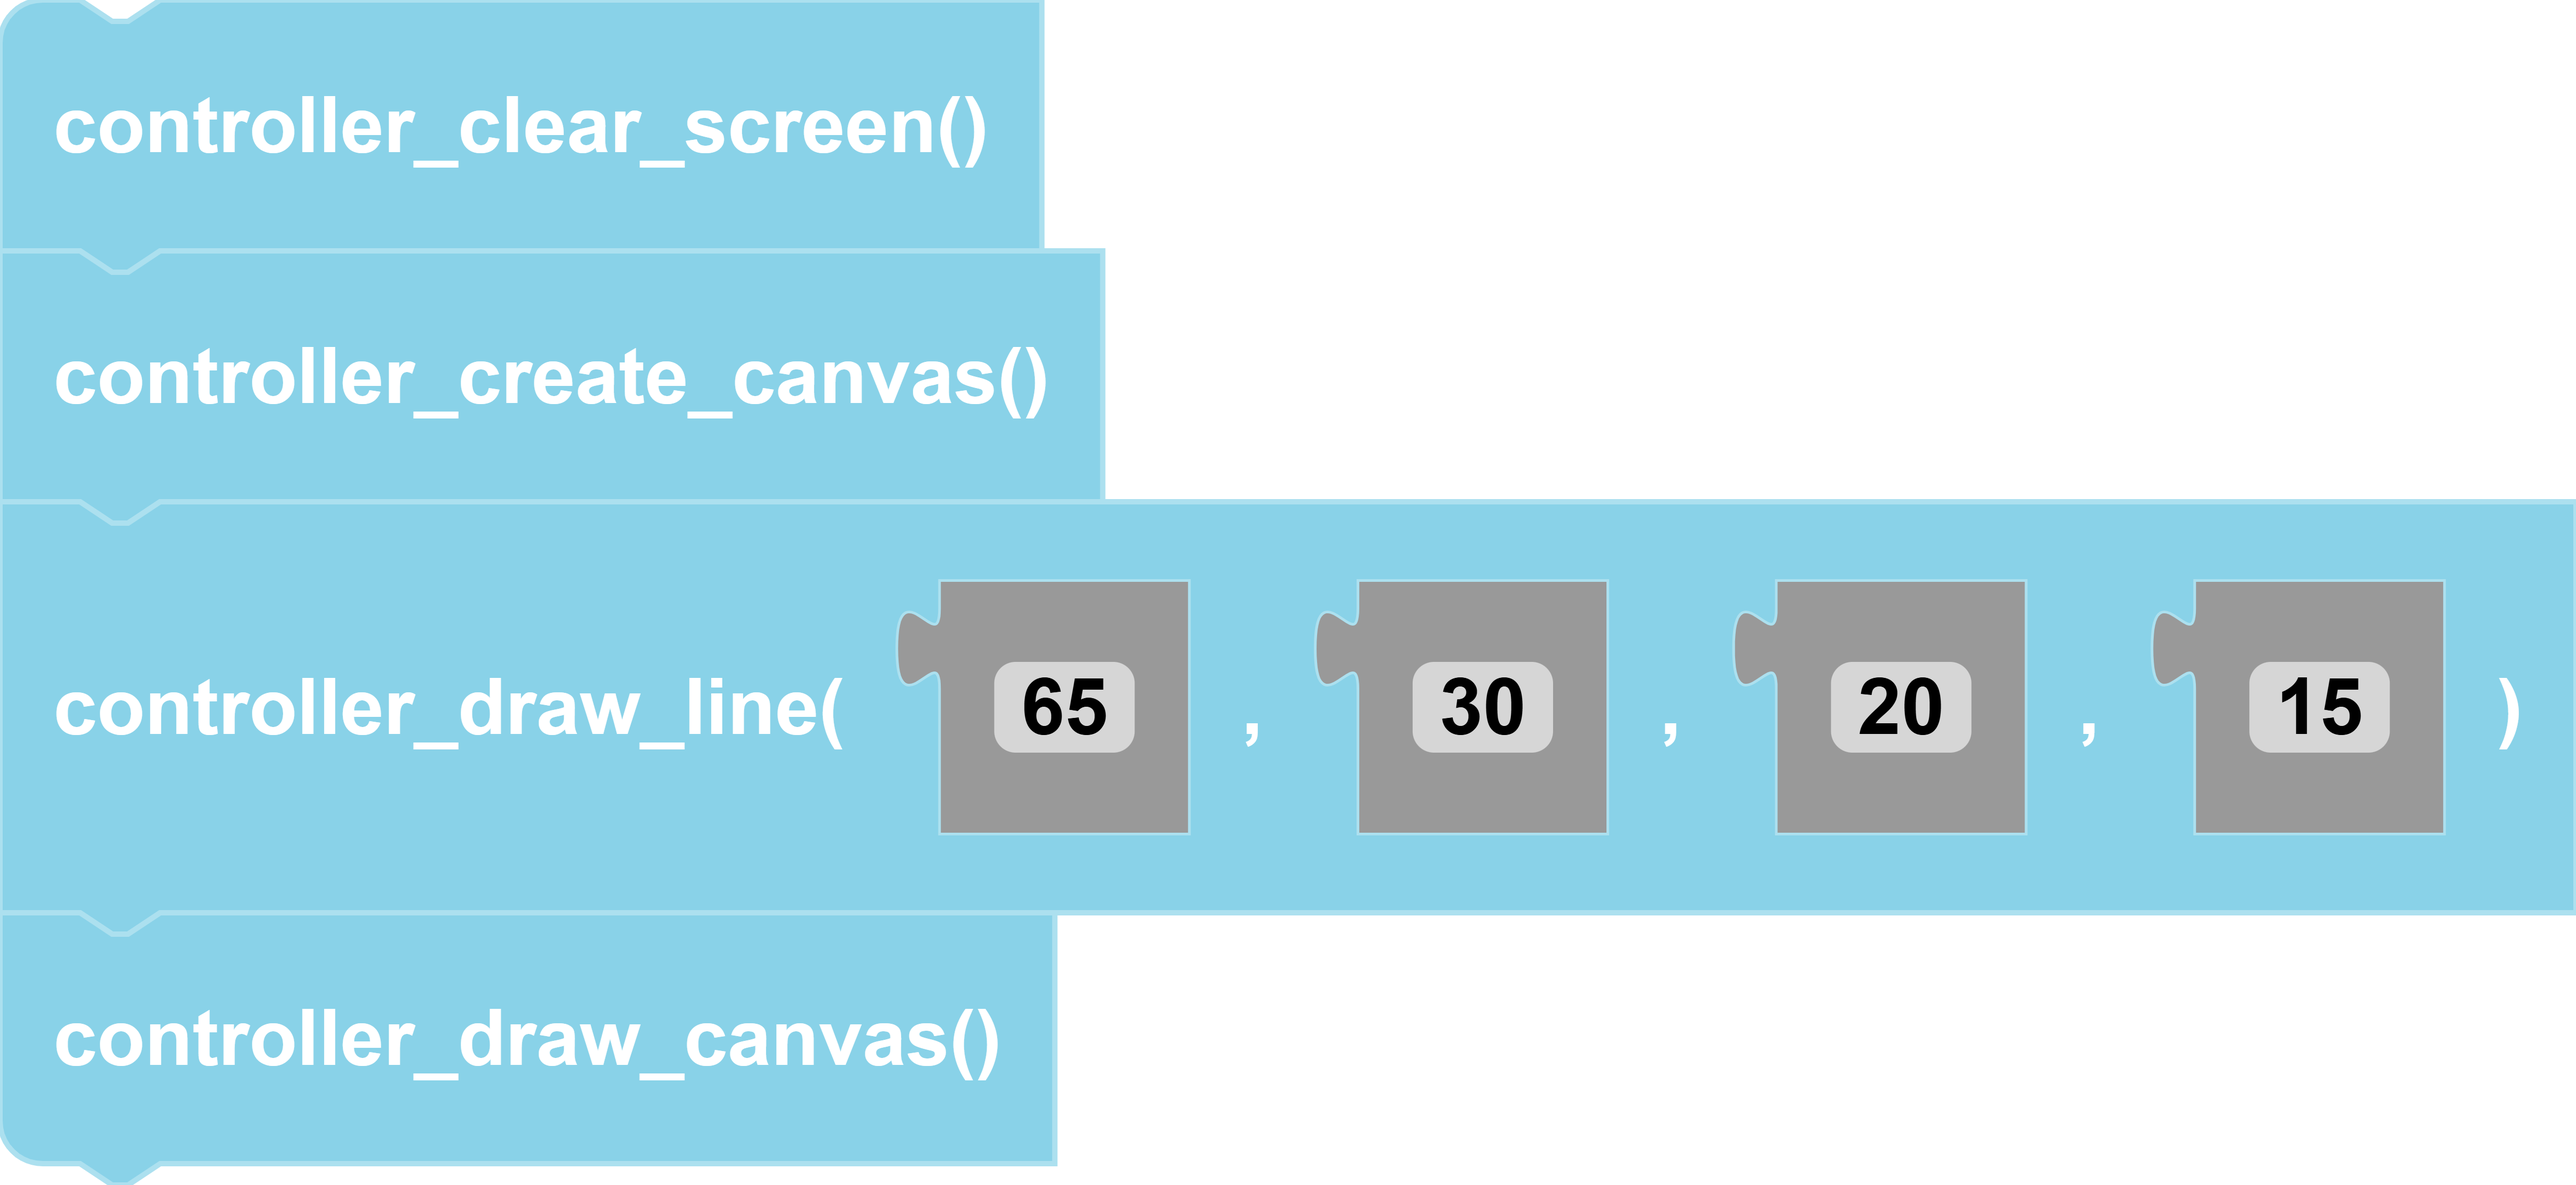
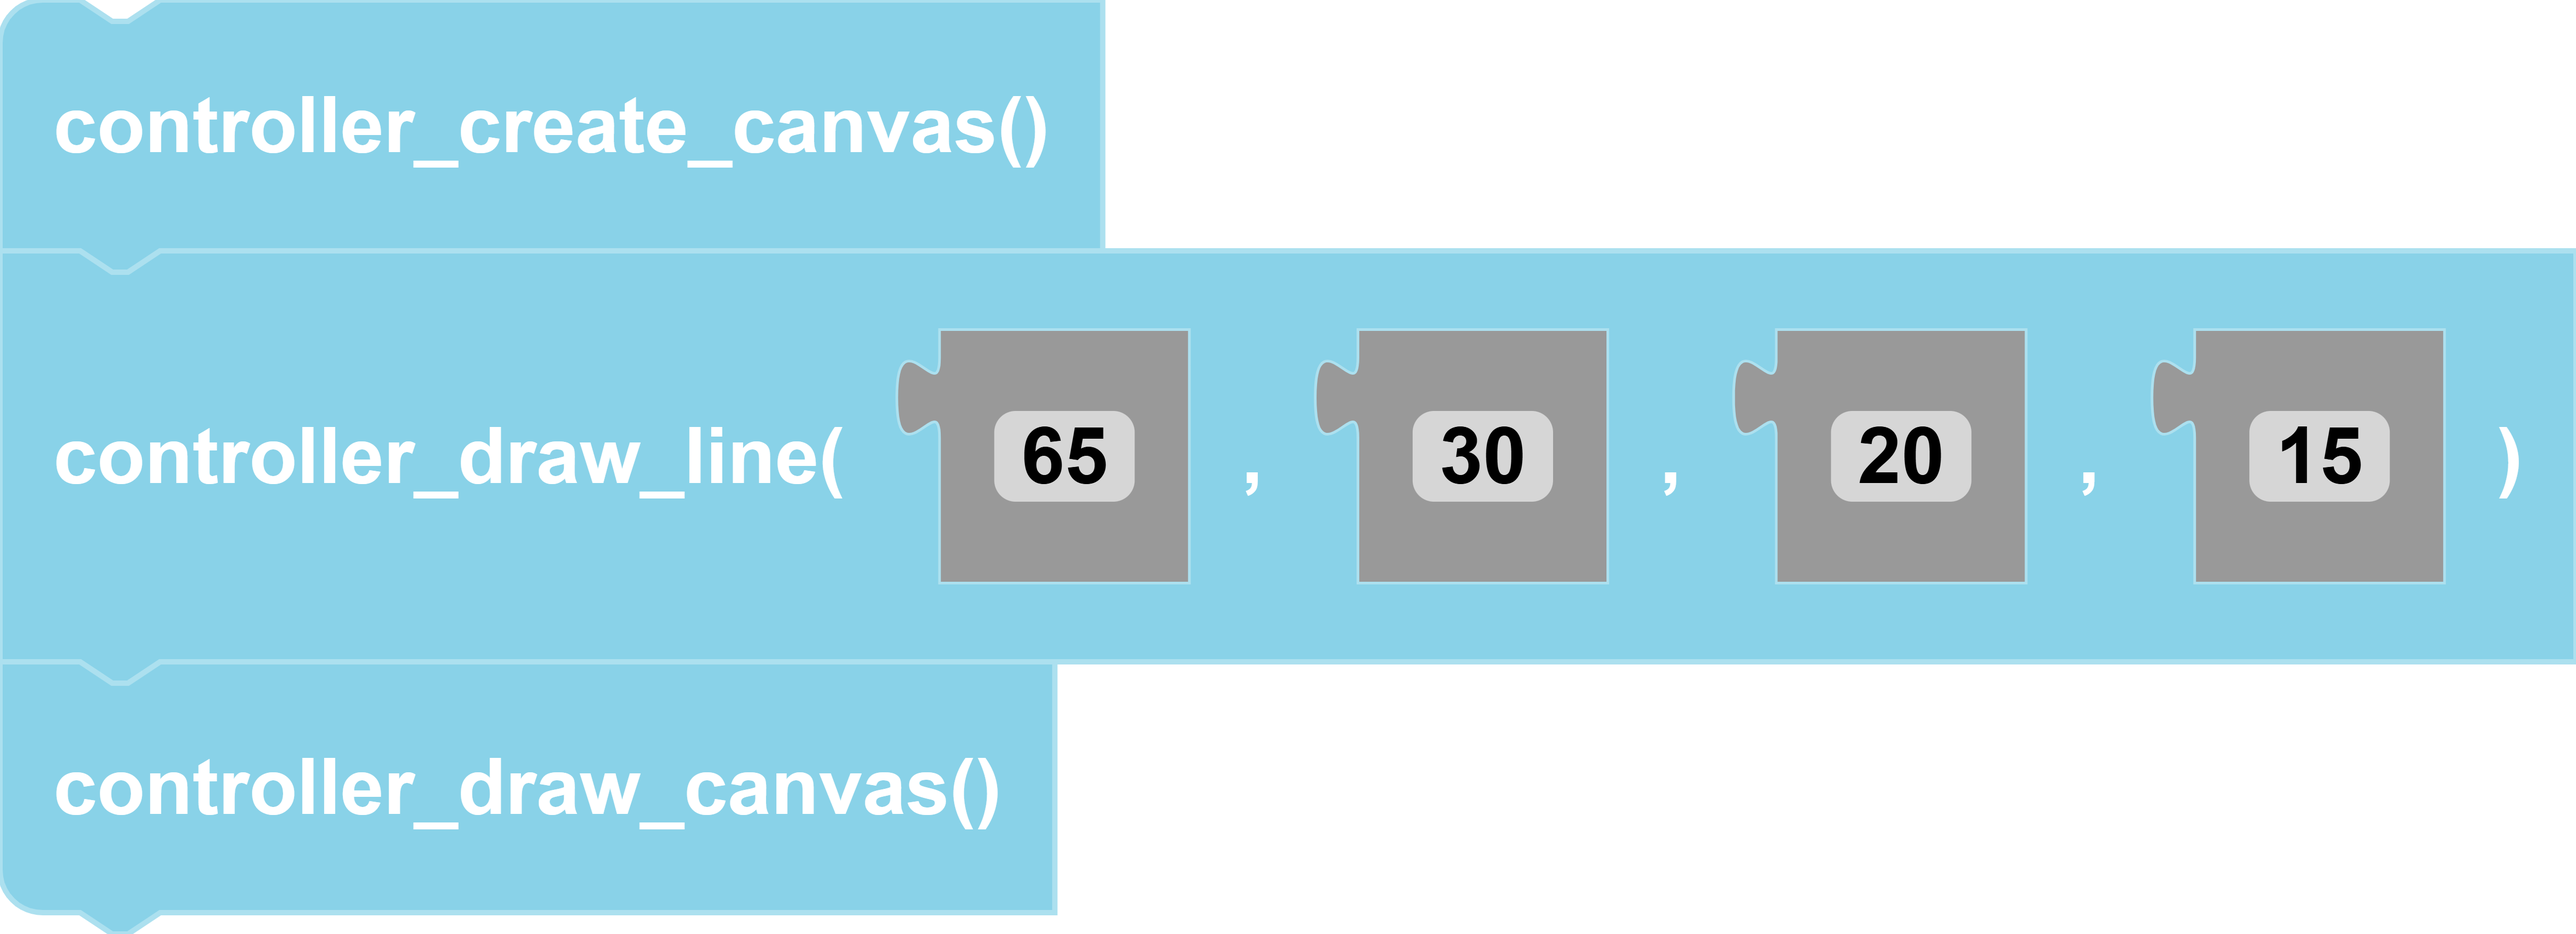
removed controller_clear_screen() from examples
including in Python documentation

diff --git a/docs/CoDroneEDU/Python/page4.md b/docs/CoDroneEDU/Python/page4.md
@@ -5132,7 +5132,17 @@ from codrone_edu.drone import *
 drone = Drone()
 drone.pair()
 
-drone.controller_clear_screen() # resets controller screen
+image = drone.controller_create_canvas()
+drone.controller_draw_rectangle(20, 30, 40, 10, image, 'black')
+drone.controller_draw_canvas(image)
+
+time.sleep(3)
+drone.controller_clear_screen() # only clears screen, does not modify the image object
+time.sleep(3)
+
+image = drone.controller_create_canvas()
+drone.controller_draw_string(60, 30, "Hello World!", image)
+drone.controller_draw_canvas(image)
 
 drone.close()
 ```
@@ -5206,7 +5216,7 @@ Draws an arc (a portion of a circle outline) between the start and end angles, i
 ***list* arc_list:** Two points to define the bounding box. Sequence of [(x0, y0), (x1, y1)], where x1 >= x0 and y1 >= y0.<br/>
 ***integer* start_angle:** Starting angle, in degrees. Angles are measured from 3 o’clock, increasing clockwise.<br/>
 ***integer* end_angle:** Ending angle, in degrees.<br/>
-***Image* image:** image object created from ``create_image_canvas()``.<br/>
+***Image* image:** image object created from ``controller_create_canvas()``.<br/>
 ***string* color:** color of arc. By default, color is black.<br/>
 ***integer* pixel_width:** optional parameter that is the line width, in pixels. default value is 1.   
 
@@ -5230,7 +5240,6 @@ drone = Drone()
 drone.pair()
 
 
-drone.controller_clear_screen() # clear screen for drawing
 image = drone.controller_create_canvas()  # creates image object, the canvas
 
 arc_list = [(20, 40), (50, 50)]
@@ -5283,7 +5292,6 @@ drone = Drone()
 drone.pair()
 
 
-drone.controller_clear_screen() # clear screen for drawing
 image = drone.controller_create_canvas()  # creates image object, the canvas
 
 arc_list = [(20, 40), (50, 50)]
@@ -5293,6 +5301,7 @@ chord_list = [(60, 20), (100, 50)]
 drone.controller_draw_ellipse(ellipse_list, image) # draw onto image object
 drone.controller_draw_arc(arc_list, 0, 180, image)
 drone.controller_draw_chord(chord_list, 0, 180, image)
+
 
 drone.controller_draw_canvas(image)  # draw image onto controller screen
 
@@ -5321,7 +5330,7 @@ Same as controller_draw_arc(), but connects the end points with a straight line.
 ***list* chord_list:** Two points to define the bounding box. Sequence of [(x0, y0), (x1, y1)], where x1 >= x0 and y1 >= y0.<br/>   
 ***integer* start_angle:** Starting angle, in degrees. Angles are measured from 3 o’clock, increasing clockwise.<br/>
 ***integer* end_angle:** Ending angle, in degrees.<br/>
-***Image* image:** image object created from ``create_image_canvas()``.<br/>
+***Image* image:** image object created from ``controller_create_canvas()``.<br/>
 ***string* color:** color of chord. By default, color is black.<br/>
 ***string* fill_in:** color of fill. By default, no fill in.<br/>
 ***integer* pixel_width:** optional parameter that is the line width, in pixels. default value is 1.   
@@ -5346,13 +5355,13 @@ drone = Drone()
 drone.pair()
 
 
-drone.controller_clear_screen() # clear screen for drawing
 image = drone.controller_create_canvas()  # creates image object, the canvas
 
 chord_list = [(20, 40), (50, 50)]
 drone.controller_draw_chord(chord_list, 0, 180, image) # set chord onto image object
 
 drone.controller_draw_canvas(image)  # draw image onto controller screen
+
 
 drone.close()
 ```
@@ -5376,7 +5385,7 @@ Draws an ellipse inside the given bounding box.
 
 #### Parameters
 ***list* ellipse_list:** Two points to define the bounding box. Sequence of [(x0, y0), (x1, y1)] where x1 >= x0 and y1 >= y0.<br/>
-***Image* image:** image object created from ``create_image_canvas()``.<br/>
+***Image* image:** image object created from ``controller_create_canvas()``.<br/>
 ***string* color:** color of ellipse. By default, color is black.<br/>
 ***string* fill_in:** color of fill. By default, no fill in.<br/>
 ***integer* pixel_width:** optional parameter that is the line width, in pixels. default value is 1.  
@@ -5401,7 +5410,6 @@ drone = Drone()
 drone.pair()
 
 
-drone.controller_clear_screen() # clear screen for drawing
 image = drone.controller_create_canvas()  # creates an image object, the canvas
 
 ellipse_list = [(10, 10), (40, 40)]
@@ -5460,11 +5468,10 @@ drone = Drone()
 drone.pair()
 
 
-drone.controller_clear_screen() # clear screen for drawing
-
 image = drone.get_image_data("example.png") # where example.png is an image in the same directory as the program
 
 drone.controller_draw_image(image) # draws the image onto the controller's screen
+
 
 drone.close()
 ```
@@ -5498,7 +5505,7 @@ Draws a line between points (x1, y1) and (x2, y2)
 ***integer* y1:** point 1 y coordinate<br/>
 ***integer* x2:** point 2 x coordinate<br/>
 ***integer* y2:** point 2 y coordinate<br/>
-***Image* image:** image object created from ``create_image_canvas()``.<br/>
+***Image* image:** image object created from ``controller_create_canvas()``.<br/>
 ***string* color:** color of line. By default, color is black<br/>
 ***integer* pixel_width:** optional parameter that is the line width, in pixels. default value is 1.  
 
@@ -5522,12 +5529,12 @@ drone = Drone()
 drone.pair()
 
 
-drone.controller_clear_screen() # clear screen for drawing
 image = drone.controller_create_canvas()  # creates an image object, the canvas
 
 drone.controller_draw_line(0,0, 60, 60, image) # draws a line from (0,0) to (60,60)
 
 drone.controller_draw_canvas(image) # draw image onto controller screen
+
 
 drone.close()
 ```
@@ -5553,7 +5560,7 @@ Draws a single pixel at the point (x,y)
 #### Parameters
 ***integer* x:** x coordinate <br/>
 ***integer* y:** y coordinate <br/>
-***Image* image:** image object created from ``create_image_canvas()``<br/>
+***Image* image:** image object created from ``controller_create_canvas()``<br/>
 ***string* color:** color of point. By default, color is black.
 
 #### Returns
@@ -5576,13 +5583,12 @@ drone = Drone()
 drone.pair()
 
 
-drone.controller_clear_screen() # clear screen for drawing
-
 image = drone.controller_create_canvas()  # creates an image object, the canvas
 
 drone.controller_draw_point(10, 10, image) # place a pixel at the (10,10) coordinate of canvas
 
 drone.controller_draw_canvas(image)  # draw image onto controller screen
+
 
 drone.close()
 ```
@@ -5607,7 +5613,7 @@ The polygon outline consists of straight lines between the given coordinates, pl
 
 #### Parameters
 ***list* point_list:** the list of coordinates<br/>
-***Image* image:** image object created from ``create_image_canvas()``.<br/>
+***Image* image:** image object created from ``controller_create_canvas()``.<br/>
 ***string* color:** color of polygon. By default, color is black.<br/>
 ***string* fill_in:** color of fill. By default, no fill in.<br/>
 ***integer* pixel_width:** optional parameter that is the line width, in pixels. default value is 1. 
@@ -5632,7 +5638,6 @@ drone = Drone()
 drone.pair()
 
 
-drone.controller_clear_screen()
 image = drone.controller_create_canvas() # creates an image object, the canvas
 
 point_list = [(0, 0), (15,15), (30,0)] # list of points that will be connected to draw a polygon
@@ -5674,7 +5679,7 @@ width
 ***integer* y:** top left corner y coordinate<br/>
 ***integer* width:** width of rectangle<br/>
 ***integer* height:** height of rectangle<br/>
-***Image* image:** image object created from ``create_image_canvas()``.<br/>
+***Image* image:** image object created from ``controller_create_canvas()``.<br/>
 ***string* color:** color of rectangle. By default, color is black.<br/>
 ***string* fill_in:** color of fill. By default, no fill in.<br/>
 ***integer* pixel_width:** optional parameter that is the line width, in pixels. default value is 1. 
@@ -5699,13 +5704,13 @@ drone = Drone()
 drone.pair()
 
 
-drone.controller_clear_screen()
 image = drone.controller_create_canvas()  # creates an image object, the canvas
 
 # draws rectangle starting at (0,0) on canvas with width of 40px and height of 20px
 drone.controller_draw_rectangle(0, 0, 40, 20,image)
 
 drone.controller_draw_canvas(image)  # draw image onto controller screen
+
 
 drone.close()
 ```
@@ -5737,7 +5742,7 @@ width
 ***integer* x:** top left corner x coordinate<br/>
 ***integer* y:** top left corner y coordinate<br/>
 ***integer* width:** width of square<br/>
-***Image* image:** image object created from ``create_image_canvas()``.<br/>
+***Image* image:** image object created from ``controller_create_canvas()``.<br/>
 ***string* color:** color of square. By default, color is black.<br/>
 ***string* fill_in:** color of fill. By default, no fill in.<br/>
 ***integer* pixel_width:** optional parameter that is the line width, in pixels. default value is 1. 
@@ -5762,7 +5767,6 @@ drone = Drone()
 drone.pair()
 
 
-drone.controller_clear_screen()
 image = drone.controller_create_canvas()  # creates an image object, the canvas
 
 # draws a square on canvas that's 30 x 30px at (0, 0)
@@ -5795,7 +5799,7 @@ Draws a string from the given x_start, x_end and y positions. The string can be 
 ***integer* x_end:** ending x position<br/>
 ***integer* y:** y position<br/>
 ***string* string:** the string to write<br/>
-***Image* image:** image object created from ``create_image_canvas()``.<br/>
+***Image* image:** image object created from ``controller_create_canvas()``.<br/>
 ***string* color:** color of string. By default, color is black.<br/>
 ***string* alignment:** optional parameter that is the alignment between x_start and x_end. can align left, right, or center. default value is left
 
@@ -5819,7 +5823,6 @@ drone = Drone()
 drone.pair()
 
 
-drone.controller_clear_screen()
 image = drone.controller_create_canvas() # creates an image object, the canvas
 
 # draws string on canvas that is aligned to the right, between x=0 and x=100 at position y=0.
@@ -5851,7 +5854,7 @@ Draws a string from the given x_start, x_end and y positions. The string can be 
 ***integer* x:** starting x position<br/>
 ***integer* y:** starting y position<br/>
 ***string* string:** the string to write<br/>
-***Image* image:** image object created from ``create_image_canvas()``.<br/>
+***Image* image:** image object created from ``controller_create_canvas()``.<br/>
 ***string* color:** color of string. By default, color is black.
 
 
@@ -5875,7 +5878,6 @@ drone = Drone()
 drone.pair()
 
 
-drone.controller_clear_screen()
 image = drone.controller_create_canvas() # creates an image object, the canvas
 
 drone.controller_draw_string(0, 0, "Hello, world!", image) # draw "Hello, world!" on image object at (0,0)
@@ -5931,7 +5933,6 @@ drone = Drone()
 drone.pair()
 
 
-drone.controller_clear_screen() # clear screen for drawing
 image = drone.controller_create_canvas()  # create image object, the canvas
 
 arc_list = [(20, 40), (50, 50)]
@@ -5987,11 +5988,12 @@ This function retrieves .png or .jpg file and resizes to fit inside controller.
 </div>
 
 ```python
+#Python code
+from codrone_edu.drone import *
 
 drone = Drone()
 drone.pair()
 
-drone.controller_clear_screen()
 
 img_list = ("images/boom.png", "images/flower.png", "images/mario.png", "images/pikachu.jpg", "images/rose.jpg", "images/troll_face.png", "images/pixel_dino.png")
 
